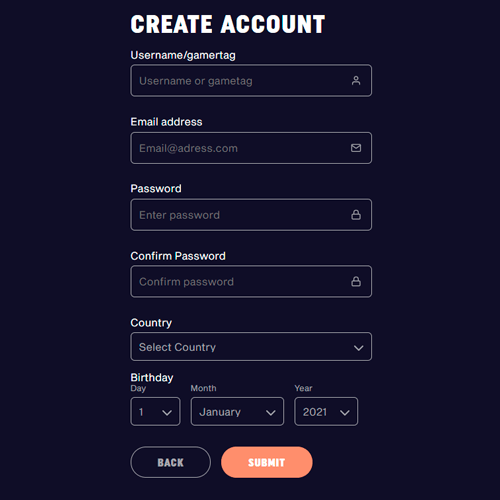
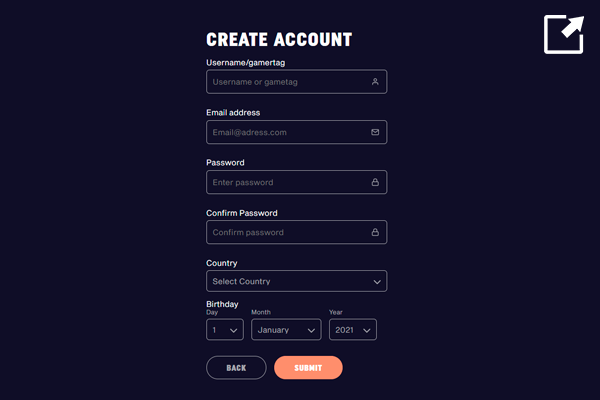
added sections

diff --git a/src/App.js b/src/App.js
@@ -32,6 +32,7 @@ function App() {
       <section id="hub" style={{ overflowX: "scroll", height: "100vh", paddingTop: "5vh" }}>
         <Hub style={{ margin: "0 auto", height: "90vh" }}></Hub>
       </section>
+
       <section style={{ minHeight: "100vh" }} id="projects">
         <nav style={{ paddingTop: "5vh", height: "10vh", display: "flex", justifyContent: "center", alignItems: "center", position: "sticky" }}>
           <a className="link" href="#hub">
@@ -47,6 +48,45 @@ function App() {
           {projectsCopy.map((project) => (
             <Project isFetched={isFetched} {...project} key={project.title} />
           ))}
+        </div>
+      </section>
+
+      <section id="about" style={{ height: "100vh", paddingTop: "5vh" }}>
+        <nav style={{ paddingTop: "5vh", height: "10vh", display: "flex", justifyContent: "center", alignItems: "center", position: "sticky" }}>
+          <a className="link" href="#hub">
+            <svg width="100" height="100" viewBox="0 0 60 50" fill="none" xmlns="http://www.w3.org/2000/svg">
+              <path d="M24.812 16.61L12 2L4.83073 15.9547L24.812 16.61Z" fill="#E27C37" />
+              <path d="M25.0403 15.8955L13.5 1.5L6.07235 15.2656L25.0403 15.8955Z" fill="#3C3466" />
+              <path d="M25.6573 21.3533L24.398 18.965L4.41691 18.7834L6.54374 22.8171L25.6573 21.3533Z" fill="#E27C37" />
+              <path d="M25.8531 20.2666L24.5938 17.8783L5.23184 17.3702L7.35867 21.4038L25.8531 20.2666Z" fill="#3C3466" />
+            </svg>
+          </a>
+        </nav>
+        <div style={{ display: "flex", flexDirection: "row", flexWrap: "wrap", justifyContent: "center", gap: "25px" }}>
+          <article style={{ boxShadow: "5px 5px 10px #bebebe,-5px -5px 10px #ffffff", borderRadius: "5px", maxWidth: "500px" }}>
+            <div className="go_to_page" style={{ overflowY: "hidden", maxWidth: "500px" }}>
+              <img style={{ borderRadius: "5px 5px 0px 0px", objectFit: "cover" }} src="./img/self_portrait.jpg" alt="selfportrait" />
+            </div>
+            <div style={{ textAlign: "center", padding: "1.5rem" }}>
+              <h2>Rasmus Petersen</h2>
+              <p style={{ fontSize: "1.5rem" }}>Aspiring frontend developer.</p>
+              <p style={{ fontSize: "1.5rem" }}>Creative mind.</p>
+              <p style={{ fontSize: "1.5rem" }}>Quick learner.</p>
+            </div>
+          </article>
+          <article id="contact" style={{ display: "flex", margin: "1rem", alignItems: "center", backgroundColor: "rgb(60, 52, 102)", padding: "2rem", boxShadow: "5px 5px 10px #bebebe,-5px -5px 10px #ffffff", borderRadius: "5px", maxWidth: "500px" }}>
+            <div>
+              <h2 style={{ color: "orange" }}>contact info</h2>
+              <p style={{ color: "white", fontSize: "1.5rem" }}>+45 21 60 28 50</p>
+              <p style={{ color: "white", fontSize: "1.5rem" }}>rasmusharbro@hotmail.com</p>
+              <a style={{ color: "orange", fontSize: "1.5rem" }} target="blank_" href="https://www.linkedin.com/in/rasmus-harbro-petersen-2b208420b/">
+                <p>linkedin</p>
+              </a>
+              <a style={{ color: "orange", fontSize: "1.5rem" }} target="blank_" href="https://github.com/rasm00f1?tab=repositories">
+                <p>github</p>
+              </a>
+            </div>
+          </article>
         </div>
       </section>
     </div>

diff --git a/src/index.css b/src/index.css
@@ -5,10 +5,10 @@
 /** fonts **/
 h2 {
   font-family: "Staatliches";
-  font-size: 3.5rem;
+  font-size: 3rem;
 
   color: rgb(60, 52, 102);
-  text-shadow: 2px 2px 0px rgb(226, 124, 55);
+  text-shadow: 1.5px 1.5px 0px rgba(226, 123, 55, 0.325);
 }
 
 h3 {
@@ -39,8 +39,9 @@ h3 {
 /** other **/
 .disclosure {
   border-radius: 4px;
-  background-color: rgb(236, 236, 236);
-  box-shadow: 2px 2px 0px rgb(226, 124, 55);
+  color: white;
+  background-color: rgb(60, 52, 102);
+  box-shadow: 2px 2px 0px rgba(226, 123, 55, 0.325);
   height: 2rem;
   display: flex;
   align-items: center;
@@ -54,7 +55,7 @@ h3 {
   max-width: 1100px;
   display: flex;
   flex-wrap: wrap;
-  gap: 20px;
+  gap: 25px;
 }
 
 .link:hover {

diff --git a/src/Project.js b/src/Project.js
@@ -7,7 +7,7 @@ export default function Project(props) {
       {props.isFetched === true ? (
         <div>
           <a target="blank_" href={props.link}>
-            <div className="go_to_page" style={{ overflowY: "hidden", height: "250px" }}>
+            <div className="go_to_page" style={{ overflowY: "hidden", maxWidth: "500px" }}>
               <img style={{ borderRadius: "5px 5px 0px 0px", objectFit: "cover" }} src={"/img/" + props.img + ".png"} alt={props.img} />
             </div>
           </a>
